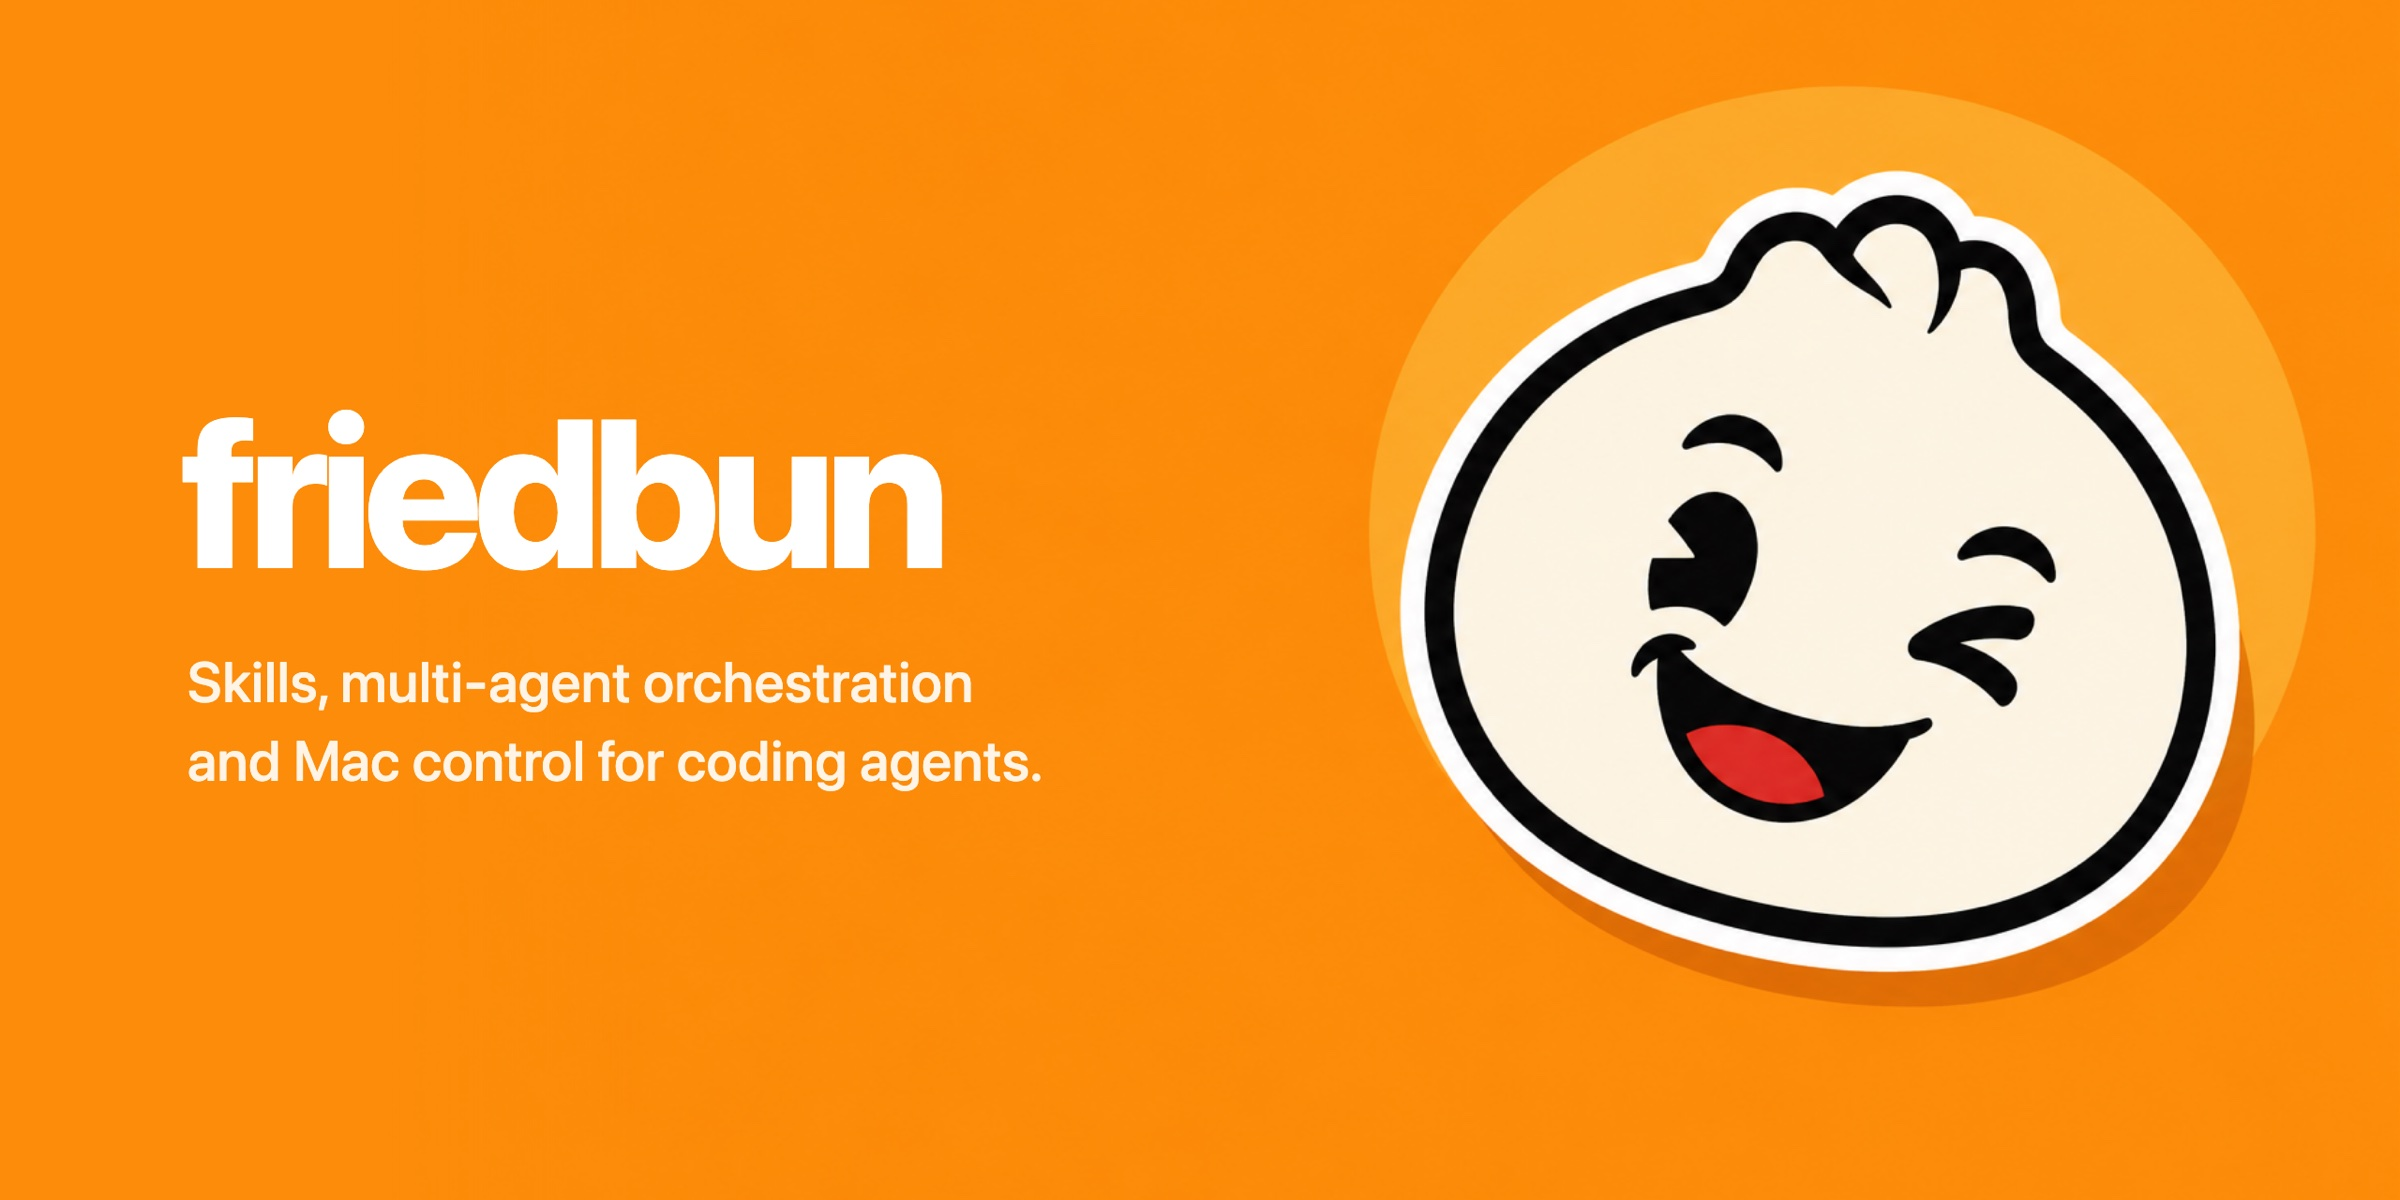
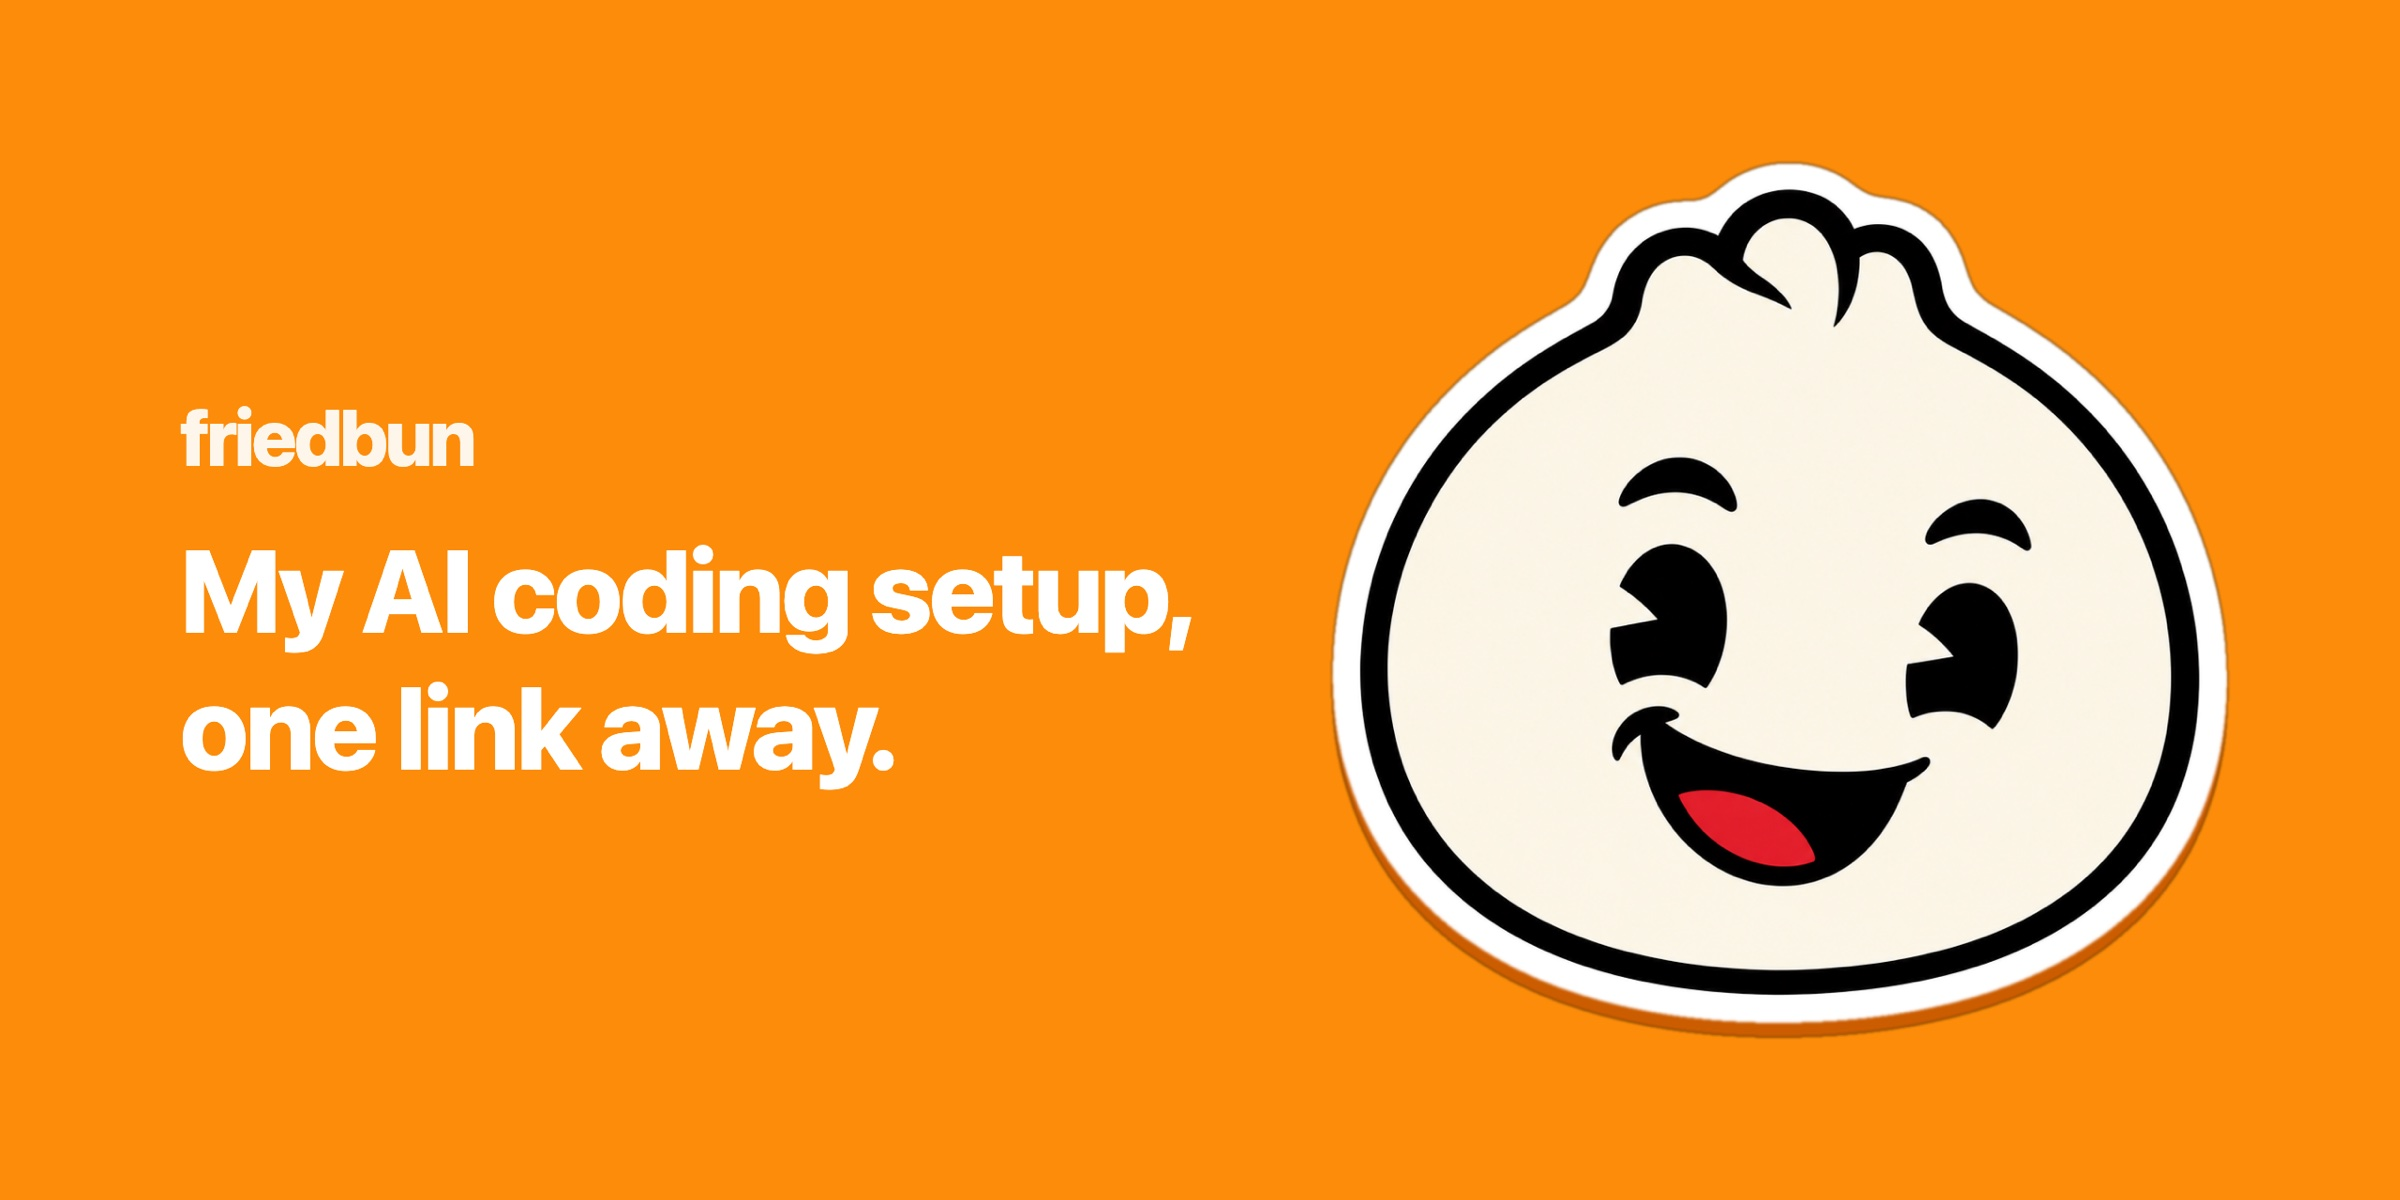
头图与社交预览图换上定稿标题；包子重绘为端正的贴纸并去掉圆形底；README 首句同步标题

Changed region(s): [[0.5312, 0.0617, 0.9688, 0.8633], [0.0625, 0.3392, 0.5, 0.6783]]

diff --git a/README.zh-CN.md b/README.zh-CN.md
@@ -1,8 +1,8 @@
-<p align="center"><img alt="friedbun" src="assets/hero-zh.jpg" width="100%"></p>
+<p align="center"><img alt="friedbun：我每天在用的 AI 编程配置，一个链接装好" src="assets/hero-zh.jpg" width="100%"></p>
 
 <p align="center"><a href="README.md">English</a> · <b>中文</b></p>
 
-我自己在用的 coding agent 配置：25 个 skill、FireCode 多代理编排，还能让 agent 操作 Mac 应用。可以只装 skills，也可以让 agent 把整套配好。
+我每天在用的 AI 编程配置，一个链接装好：25 个 skill、FireCode 多代理编排，还能让 agent 操作 Mac 应用。可以只装 skills，也可以让 agent 把整套配好。
 
 ```bash
 npx skills add Suge8/friedbun

diff --git a/README.md b/README.md
@@ -1,8 +1,8 @@
-<p align="center"><img alt="friedbun" src="assets/hero-en.jpg" width="100%"></p>
+<p align="center"><img alt="friedbun — my AI coding setup, one link away" src="assets/hero-en.jpg" width="100%"></p>
 
 <p align="center"><b>English</b> · <a href="README.zh-CN.md">中文</a></p>
 
-My coding-agent setup: 25 skills, multi-agent orchestration with FireCode, and an agent that can use Mac apps. Install just the skills, or let your agent set up the whole thing.
+My AI coding setup, one link away: 25 skills, multi-agent orchestration with FireCode, and an agent that can use Mac apps. Install just the skills, or let your agent set up the whole thing.
 
 ```bash
 npx skills add Suge8/friedbun
